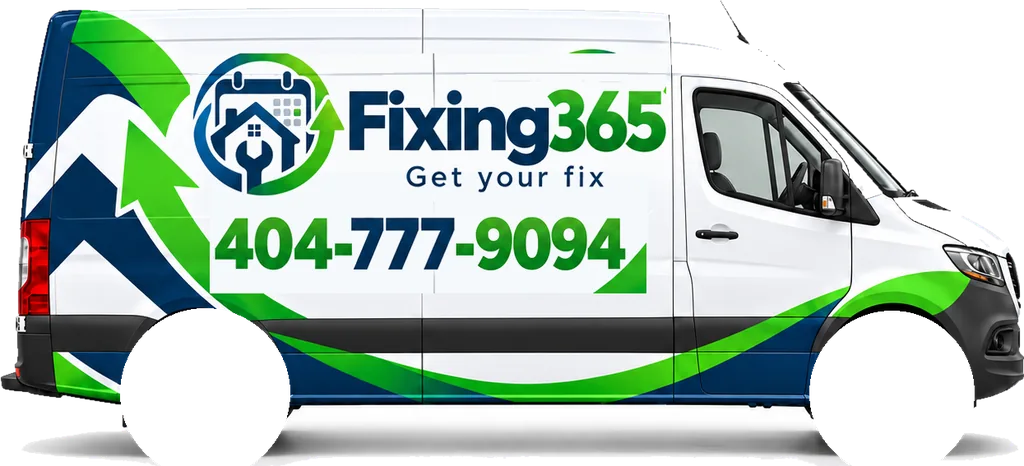
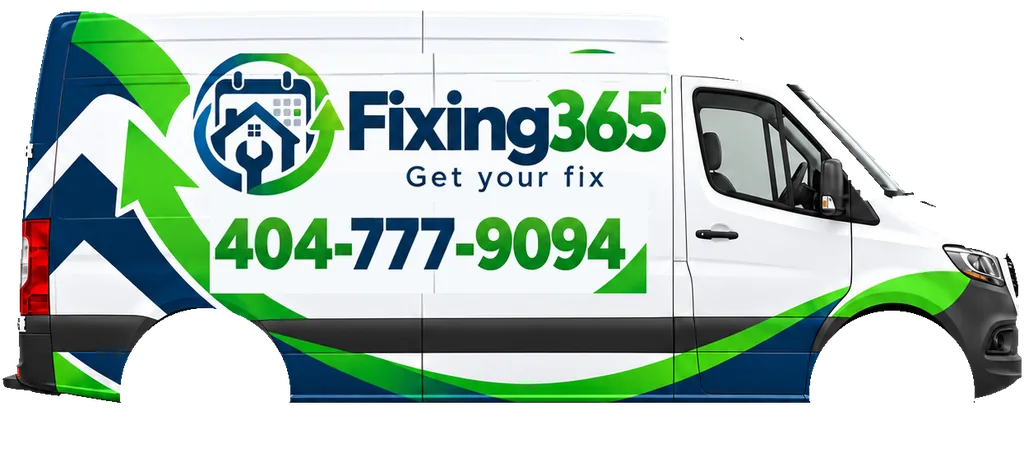
Van cleanup: remove white floor band, seat wheels, drop duplicate mirrors
- Side skins end at the rocker: the studio floor shadow that showed as a
  white band under the van is gone on both sides
- Body silhouette trimmed to match, so no white paint shows below the
  livery
- Wheel wells sit in front of the skin and cover the cut edge, so no
  light outline shows around the tires
- 3D mirrors removed; the photos already show them

diff --git a/src/three/world/ServiceVan.tsx b/src/three/world/ServiceVan.tsx
@@ -11,7 +11,7 @@ import type { Vec3 } from "@/config/world";
  * the near side uses the side photo, the far side a mirrored copy with the
  * logo, slogan and phone laid back on the right way round, and the rear
  * doors and front end use their own photos with the manufacturer badge
- * painted out. Real 3D wheels, mirrors and windshield glass sit on top.
+ * painted out. Real 3D wheels, dark wheel wells and windshield glass sit on top; mirrors come from the photos.
  * All five skins together weigh about 210 KB, so it loads fast on phones.
  */
 
@@ -24,7 +24,7 @@ const WIDTH = 2.02;
 
 /** Side silhouette in photo pixels (column, row), nose at column 0. */
 const PROFILE: [number, number][] = [
-  [4, 508],
+  [4, 489],
   [2, 432],
   [10, 330],
   [40, 290],
@@ -37,8 +37,8 @@ const PROFILE: [number, number][] = [
   [1175, 13],
   [1196, 22],
   [1214, 60],
-  [1218, 498],
-  [1206, 510],
+  [1218, 489],
+  [1206, 490],
 ];
 
 const toX = (col: number) => (col - 1245 / 2) * PX;
@@ -201,10 +201,10 @@ function VanBody() {
           <mesh
             key={`${wx}-${sd}`}
             material={M.well}
-            position={[wx, 0.42, sd * (WIDTH / 2 + 0.002)]}
+            position={[wx, 0.42, sd * (WIDTH / 2 + 0.008)]}
             rotation={[0, sd > 0 ? 0 : Math.PI, 0]}
           >
-            <circleGeometry args={[0.47, 32]} />
+            <circleGeometry args={[0.49, 48]} />
           </mesh>
         )),
       )}
@@ -216,17 +216,7 @@ function VanBody() {
       >
         <boxGeometry args={[0.015, wsLen, WIDTH - 0.16]} />
       </mesh>
-      {/* mirrors on their arms, underbody and a roof antenna */}
-      {[1, -1].map((sd) => (
-        <group key={sd} position={[toX(236), toY(250), sd * (WIDTH / 2 + 0.16)]}>
-          <mesh material={M.trim} castShadow>
-            <boxGeometry args={[0.1, 0.34, 0.12]} />
-          </mesh>
-          <mesh material={M.trim} position={[0.02, -0.1, -sd * 0.1]}>
-            <boxGeometry args={[0.05, 0.05, 0.16]} />
-          </mesh>
-        </group>
-      ))}
+      {/* underbody and a roof antenna */}
       <mesh material={M.trim} position={[0, 0.28, 0]}>
         <boxGeometry args={[LENGTH - 0.5, 0.18, WIDTH - 0.2]} />
       </mesh>
